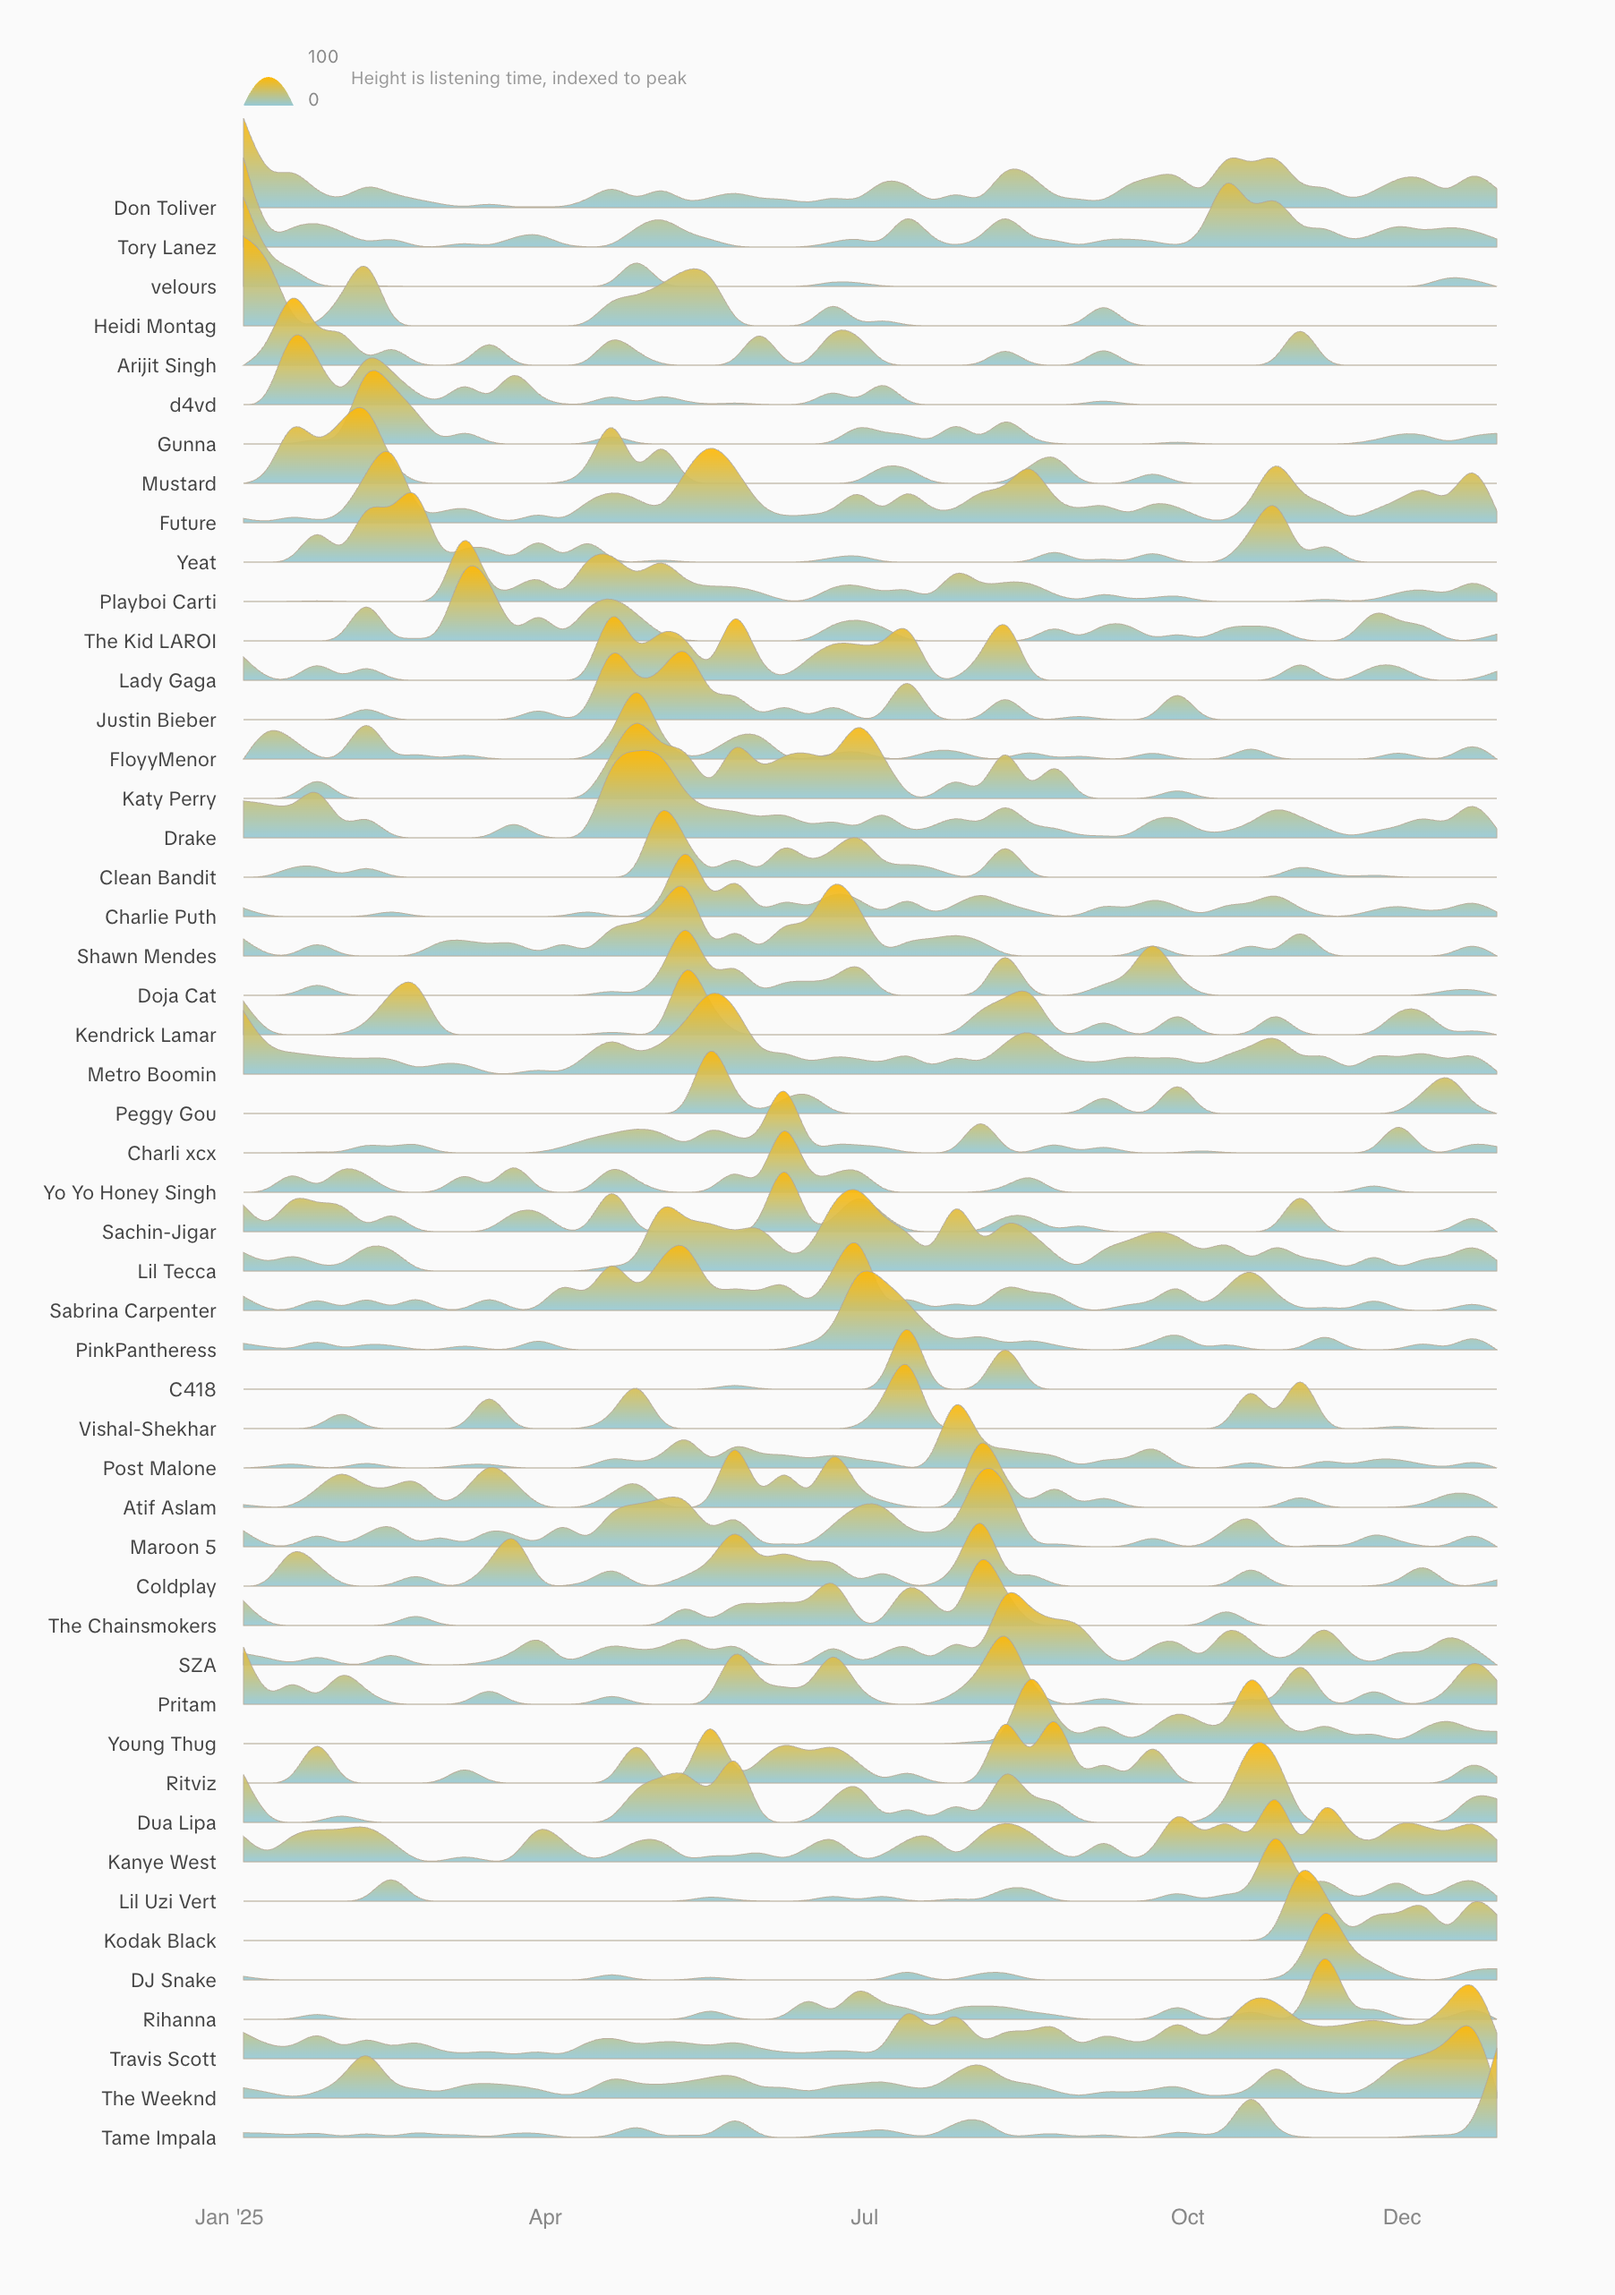
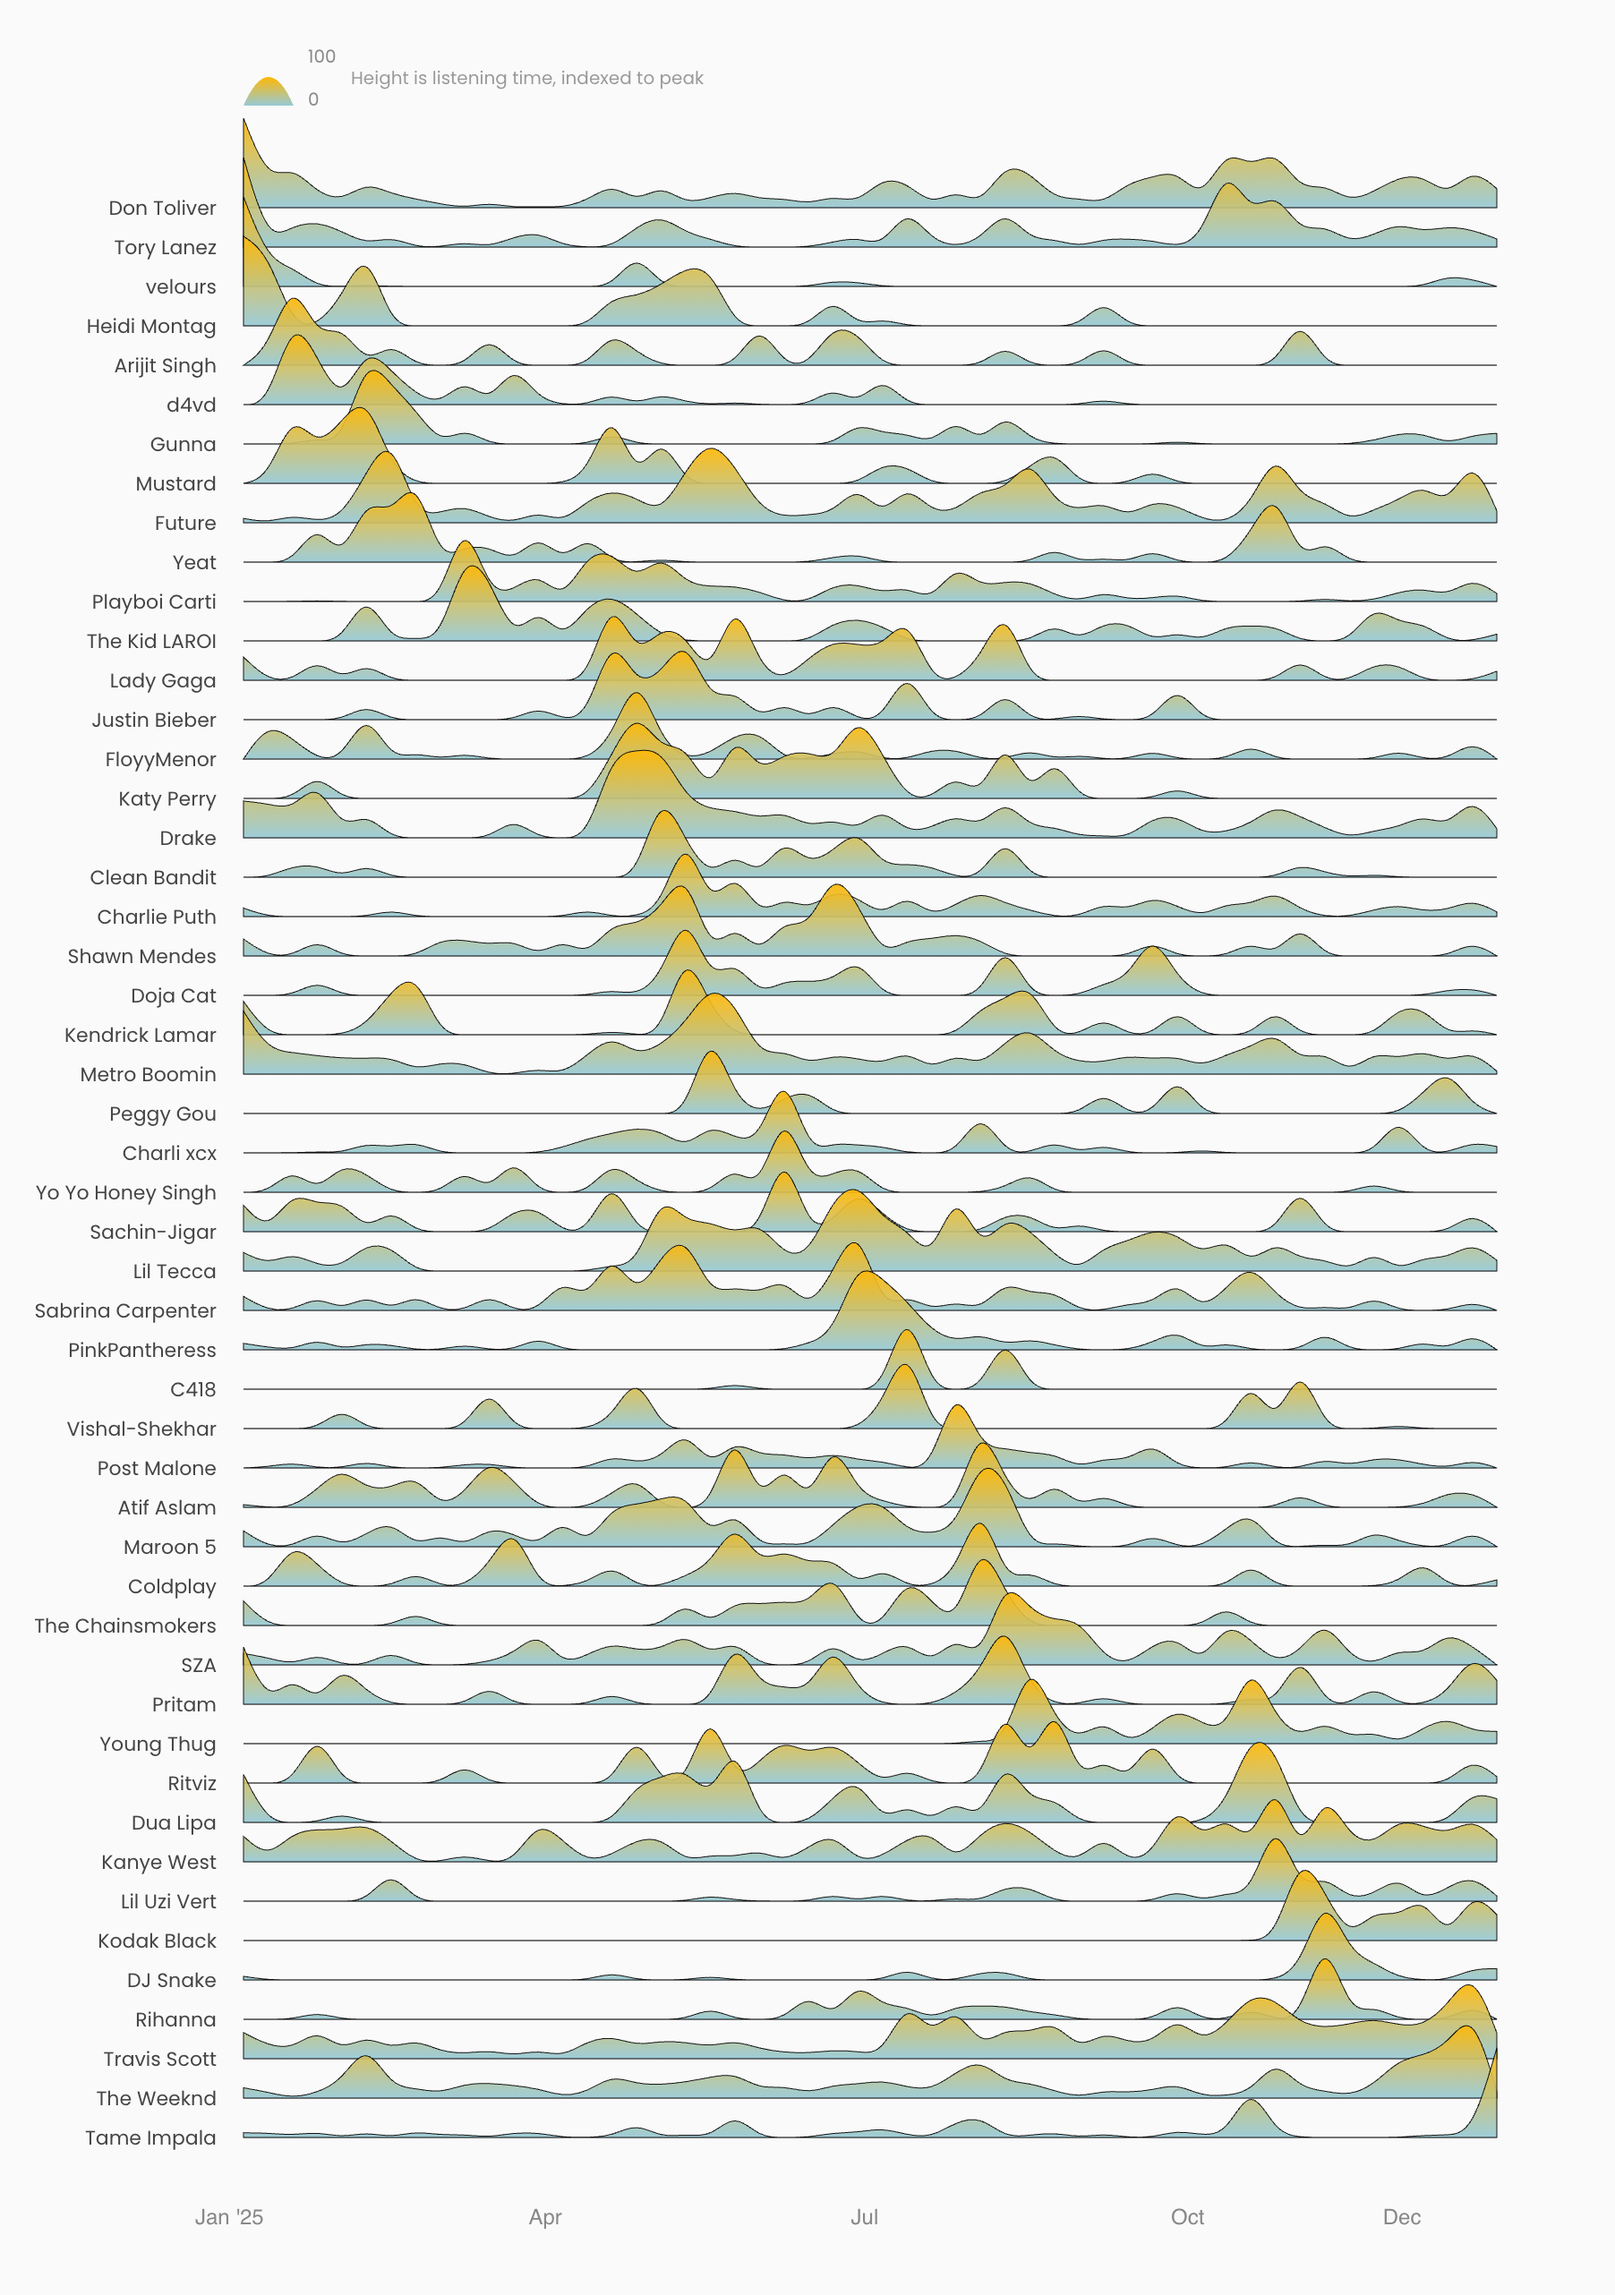
Change border to black and switch font to Poppins
🤖 Generated with [Claude Code](https://claude.com/claude-code)

diff --git a/src/components/RidgelineChart.tsx b/src/components/RidgelineChart.tsx
@@ -54,14 +54,14 @@ export default function RidgelineChart({ data, title }: RidgelineChartProps) {
       .attr("viewBox", `0 0 ${width} ${height}`)
       .style("max-width", "100%")
       .style("height", "auto")
-      .style("font-family", "var(--font-tiktok-sans), 'TikTok Sans', sans-serif");
+      .style("font-family", "var(--font-poppins), 'Poppins', sans-serif");
 
     const defs = svg.append("defs");
 
     // Colors - teal at bottom, orange/yellow at top
     const baseColor = "#96C9D6";
     const peakColor = "#FFB804";
-    const borderColor = "#B4A996";
+    const borderColor = "#000000";
 
     // Single vertical gradient - bottom to top
     const areaGradient = defs

diff --git a/src/app/layout.tsx b/src/app/layout.tsx
@@ -1,9 +1,9 @@
 import type { Metadata } from "next";
-import { TikTok_Sans } from "next/font/google";
+import { Poppins } from "next/font/google";
 import "./globals.css";
 
-const tiktokSans = TikTok_Sans({
-  variable: "--font-tiktok-sans",
+const poppins = Poppins({
+  variable: "--font-poppins",
   subsets: ["latin"],
   weight: ["400", "500", "600", "700"],
 });
@@ -20,7 +20,7 @@ export default function RootLayout({
 }>) {
   return (
     <html lang="en">
-      <body className={`${tiktokSans.variable} ${tiktokSans.className} antialiased`}>
+      <body className={`${poppins.variable} ${poppins.className} antialiased`}>
         {children}
       </body>
     </html>
